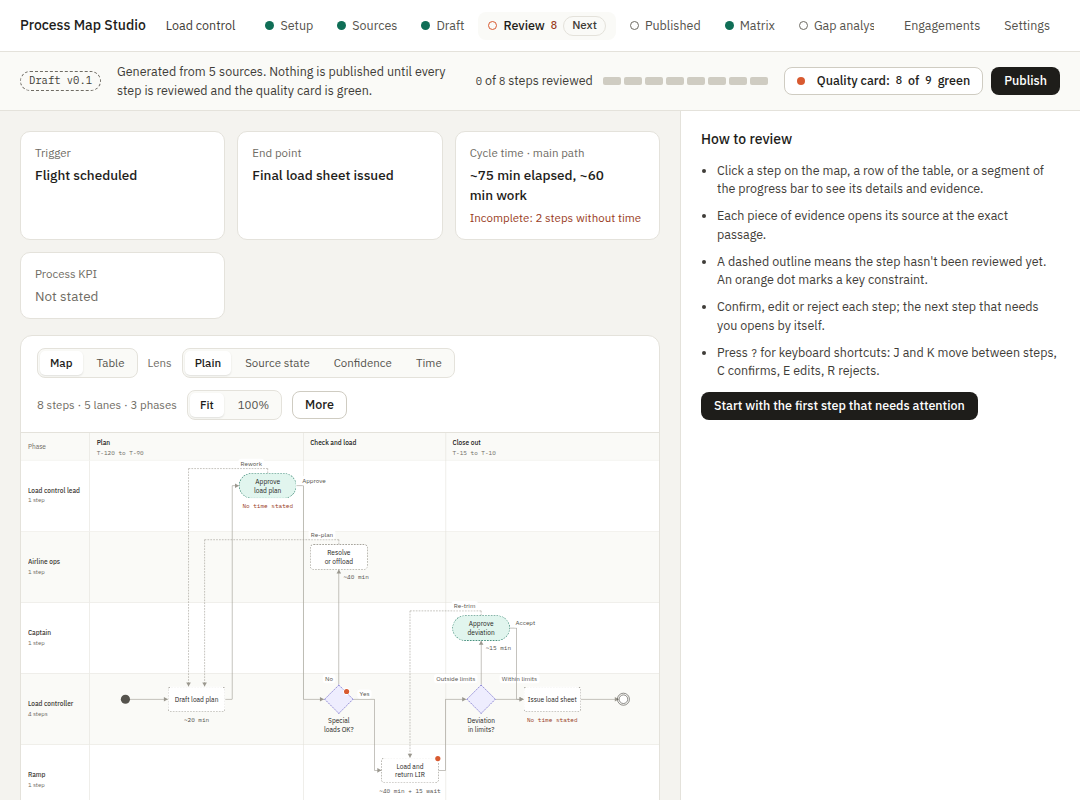
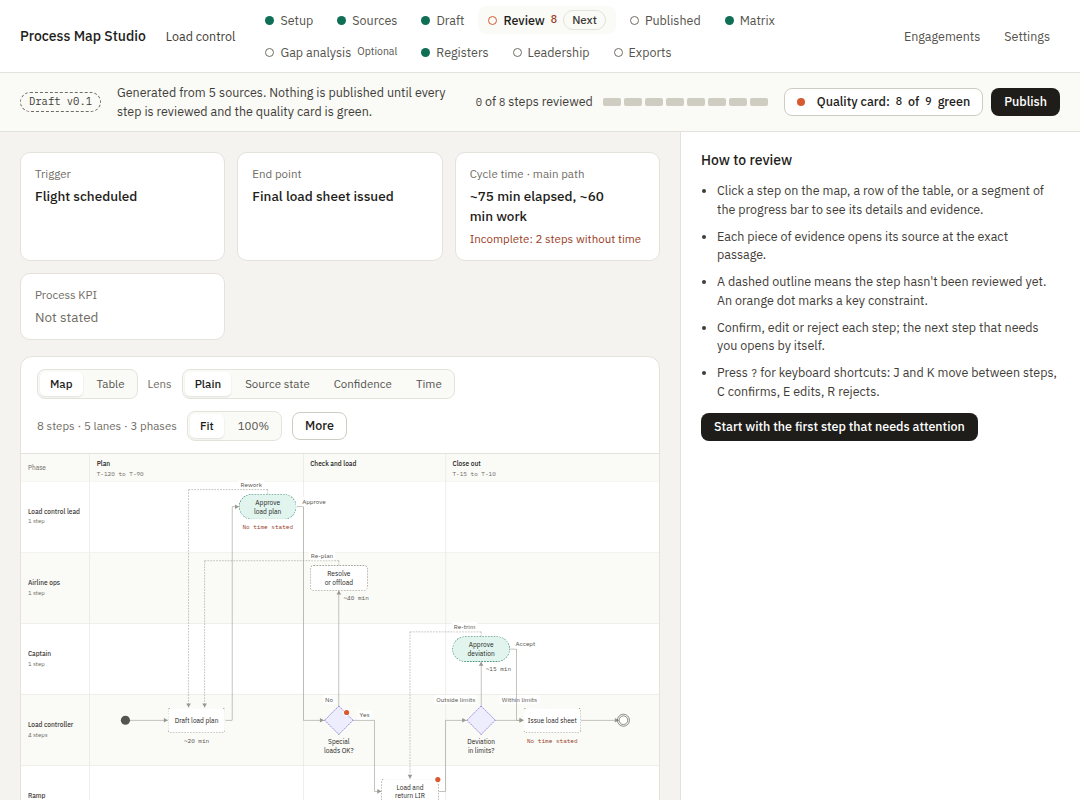
Step bar never cuts off steps: it wraps onto a second line (approved)
In the final visual pass the owner approved one fix: when the window is
narrower or the engagement name is long, the row of steps at the top
now continues on a second line instead of hiding Registers, Leadership
and Exports. A browser check guards it, and the approved 1080 x 800
Review screenshot is updated; the 1440 x 900 one is unchanged.

Claude-Session: https://claude.ai/code/session_015fu8rvp8x8i73CNVXAvCz5

diff --git a/frontend/tests/e2e/smoke.spec.ts b/frontend/tests/e2e/smoke.spec.ts
@@ -201,6 +201,15 @@ test("draft: create a draft map, watch it finish, see the checked claims", async
     }
     await expect(page).toHaveScreenshot("p7-review-1440x900.png");
     await page.setViewportSize({ width: 1080, height: 800 });
+    // P12 visual pass: every step of the guided path stays in view at the smaller size (the bar
+    // wraps instead of cutting off Registers, Leadership and Exports).
+    const bar = page.getByRole("navigation", { name: "Engagement steps" });
+    const barBox = await bar.boundingBox();
+    for (const step of await bar.getByRole("link").all()) {
+      const box = await step.boundingBox();
+      const name = await step.getAttribute("aria-label");
+      expect(box && barBox && box.x + box.width <= barBox.x + barBox.width + 0.5, `${name} is cut off`).toBe(true);
+    }
     await expect(page).toHaveScreenshot("p7-review-1080x800.png");
     await page.setViewportSize({ width: 1440, height: 900 });
     // P7: Publish on an unreviewed draft is refused with what to fix, in the quality card popover.

diff --git a/frontend/src/components/shell/shell.css b/frontend/src/components/shell/shell.css
@@ -56,8 +56,9 @@
 
 .engagement-nav {
   display: flex;
+  /* Wraps rather than cutting off the last steps when space runs short (P12 visual pass). */
+  flex-wrap: wrap;
   gap: var(--space-4);
-  overflow-x: auto;
   padding: var(--space-6) 0;
   margin: 0;
   list-style: none;

diff --git a/PROJECT_STATE.md b/PROJECT_STATE.md
@@ -12,8 +12,8 @@ P12 follows PRD §6.3 P12, §3.10 (clean-clone rehearsal, v1.0.0 release) and §
 - [x] Increment 1 — live evaluation harness: a scorer for the P12 thresholds (evidence verified, numbers found in sources, ≥ 7 of 8 A.5 elements, injection without effect, stability across two runs, no hidden names, Analysis A finds the A.7 divergences, Analysis B citation checks), tested offline on the mocked run; `pytest -m live` runs the fixture twice with the real key and writes an evaluation report
 - [x] Increment 2 — clean-clone rehearsal (PRD §3.10): clone into an empty folder, follow README.md literally with the launchers, start the app with `MOCK_CLAUDE=1`, draft the fixture engagement, delete the folder; fix README and log anything that didn't work as written
 - [x] Increment 3 — handover documents: README.md and GUIDE.md complete (no build-phase wording or placeholders left), app version 1.0.0, plain-language release notes for v1.0.0
-- [ ] Increment 4 — IN PROGRESS, waiting for Eric: final visual pass: screenshots of every screen at 1440 × 900 and 1080 × 800 in `docs/screens/p12-*.png`, index `docs/screens/P12_VISUAL_PASS.md`. One proposed fix awaits his decision: the engagement step bar wraps to a second line instead of cutting off Registers/Leadership/Exports (one line in `frontend/src/components/shell/shell.css`: `flex-wrap: wrap` instead of `overflow-x: auto`); it changes the approved `p7-review-1080x800.png` baseline, so it is not applied until he approves
-- [ ] Increment 5 — live run with Eric's key (only when he asks): run the fixture twice, record the evaluation in DECISIONS.md, tune prompts only if a threshold is missed
+- [x] Increment 4 — final visual pass: screenshots of every screen at 1440 × 900 and 1080 × 800 in `docs/screens/p12-*.png`, index `docs/screens/P12_VISUAL_PASS.md`. One proposed fix awaits his decision: the engagement step bar wraps to a second line instead of cutting off Registers/Leadership/Exports (one line in `frontend/src/components/shell/shell.css`: `flex-wrap: wrap` instead of `overflow-x: auto`); it changes the approved `p7-review-1080x800.png` baseline, Eric approved it on 2026-09-29 and it is applied (new approved 1080 × 800 baseline)
+- [ ] Increment 5 — NEXT (new session, once Eric has added the key to the cloud environment): live run with Eric's key (he asked for it, in the cloud): run the fixture twice, record the evaluation in DECISIONS.md, tune prompts only if a threshold is missed
 - [ ] Increment 6 — close P12: tag `phase-p12` and `v1.0.0`, GitHub release with the notes (Eric creates it if the cloud session can't), report card
 
 ## Done (all sessions)
@@ -115,13 +115,14 @@ P12 follows PRD §6.3 P12, §3.10 (clean-clone rehearsal, v1.0.0 release) and §
 - 2026-09-29 P12 increment 1: live evaluation harness: a scorer for every P12 threshold (evidence verified, numbers in sources, 7 of 8 A.5 steps, injection without effect, no hidden names, stability, Analysis A divergences, Analysis B citations), tested offline on the mocked run; pytest -m live drafts the fixture twice with Eric's key and writes the report. 13 of 13 checks green.
 - 2026-09-29 P12 increment 2: clean-clone rehearsal passes (second pass): setup, start with the mock, key and connection test, the fixture drafted (21 claims, 8 steps), clean stop, folder deleted. The first pass found and fixed three things: the settings template now has blank values (so environment settings apply), the private settings file has its own header, and closing the start window stops the server too. 13 of 13 checks green.
 - 2026-09-29 P12 increment 3: handover documents: app version 1.0.0, README without build-phase wording and linking the release notes (docs/RELEASE_NOTES_v1.0.0.md), GUIDE complete (How to use it: a typical engagement start to finish, screens table, what changed). 13 of 13 checks green.
+- 2026-09-29 P12 increment 4: final visual pass: every screen at 1440 × 900 and 1080 × 800 (docs/screens/P12_VISUAL_PASS.md); Eric approved the one fix found: the engagement step bar wraps instead of cutting off Registers, Leadership and Exports (browser check added; new approved 1080 × 800 Review baseline, 1440 × 900 unchanged). 13 of 13 checks green.
 
 ## Not started yet
 - P12 live run, polish and handover
 
 ## How to resume (write this as if for a stranger)
-1. The next task is: Phase P12 (PRD §6.3 P12: live run, polish and handover — with Eric's key run the fixture twice live (`pytest -m live`, only when Eric asks) and record the evaluation in DECISIONS.md against the P12 thresholds; tune prompts only if thresholds are missed; final visual pass at 1440 × 900 and 1080 × 800 with Eric's approval; complete GUIDE.md and README.md (no placeholders); the clean-clone rehearsal (PRD §3.10) following README.md literally; tag `v1.0.0` and a GitHub release with plain-language notes). Most of it needs Eric's key and his presence: ask him first. Break it into ~30-minute increments in the section above. Check the merge status of the working branch first (if merged, restart it from `main`).
-2. The relevant files are: PRD_ProcessMapStudio.md §3.10, §6.3 P12 and Appendix A.5–A.7 (the expected outcomes); `backend/tests` (the live test marker does not exist yet); README.md and GUIDE.md; `docs/screens/` (the approved visual baselines `docs/screens/p7-review-*.png` must not change without Eric's approval; `p11-leadership.png` is a reference screenshot, not a baseline).
+1. The next task is: P12 increment 5, the live run. Eric chose (2026-09-29) to run it in the cloud: he adds `ANTHROPIC_API_KEY` as an environment variable in the cloud environment's settings, and a **new** session picks it up (check with `env | grep -c ^ANTHROPIC_API_KEY=`, never print the value). Then run `cd backend && PMS_LIVE_REPORT=/tmp/live-evaluation.md ../.venv/bin/pytest -m live -s` (about an hour; two drafts, Analysis A and B; billed to Eric). If Analysis B reports "Web search isn't enabled", record B1–B3 as not run and tell Eric the README fix. Record the report's table in DECISIONS.md and the result in `docs/RELEASE_NOTES_v1.0.0.md` ("How it was checked") and GUIDE's "What changed". Tune prompts only if a threshold is missed (PRD §6.3; three failed attempts → stop and report). Then increment 6: tag `phase-p12` and `v1.0.0` (tag pushes fail from the cloud: say so), and ask Eric to create the GitHub release from `docs/RELEASE_NOTES_v1.0.0.md` (Releases → Draft a new release → tag v1.0.0 → paste the notes) after merging. Check the merge status of the working branch first (if merged, restart it from `main`).
+2. The relevant files are: `backend/tests/live/` (evaluation.py scorer, capture.py, test_live_run.py), `backend/tests/unit/test_live_evaluation.py`, `docs/RELEASE_NOTES_v1.0.0.md`, GUIDE.md, README.md. The approved visual baselines are `docs/screens/p7-review-1440x900.png` and the new `p7-review-1080x800.png` (step bar wraps; approved 2026-09-29); `docs/screens/P12_VISUAL_PASS.md` is the final visual pass.
 3. Watch out for: the GitHub repository was public at kickoff; Eric made it private on 2026-09-26 (confirmed via the GitHub API). Never push if it is public again. This cloud session pushes to branch `claude/charming-davinci-sck1cq`, not `main` (see DECISIONS.md).
 4. Privacy (G10): names are hidden by the actions that build responses (`actions/redaction.py`). Any new endpoint that returns source text, file names, quotes, claims, elements or audit rows must apply `redaction.name_replacements` + `hide`; the Audit tab (P6) must hide names in audit rows (the "Added source" row keeps the uploaded file name).
 5. Process trap (2026-09-26): never chain `./run_checks.sh | tail … && git commit`; the pipe hides the failure code. Run the checks alone, confirm exit code 0, then commit. Fake keys in tests must be built by concatenation (the secret check blocks key-shaped literals).
@@ -129,6 +130,7 @@ P12 follows PRD §6.3 P12, §3.10 (clean-clone rehearsal, v1.0.0 release) and §
 7. Run `./run_checks.sh` first — all 13 lines should say PASS. If `.venv` or `frontend/node_modules` is missing (fresh cloud container), run `python3.12 scripts/setup.py --dev` first.
 
 ## Known issues
+- The P12 live evaluation has not run yet: it waits for Eric's key in the cloud environment (see How to resume). Until then the release notes say the harness is ready but not yet run.
 - The `phase-p11` tag: see the report card for whether it could be pushed (tags have never been pushable from cloud sessions). P11's last commit is on branch `claude/charming-davinci-sck1cq`.
 - The `phase-p10` tag: see the report card for whether it could be pushed (tags have never been pushable from cloud sessions). P10's last commit is on branch `claude/charming-davinci-sck1cq`.
 - Gap analysis runs have been exercised with mocked Claude and mocked web search only; the first live runs happen in P12 with Eric's key (PRD §6.3 P12 thresholds for Analysis A and B).

diff --git a/DECISIONS.md b/DECISIONS.md
@@ -259,3 +259,4 @@ One line per decision, including every library and SDK method verified. Settled 
 | 2026-09-29 | Clean-clone rehearsal (PRD §3.10), first pass on `main` at 00deb6c: clone, Setup.command and Start.command worked as the README says, but two things didn't. (1) Starting with `MOCK_CLAUDE=1` did not switch on the mock: `.env.example` had filled-in values, so the private `.env` pinned every setting and, by the settled precedence (.env first, then the environment), the environment could never apply. `.env.example` now has blank values, as PRD §3.4 says ("committed with blank values"); blank means the PRD default, and Settings fills in what Eric changes. Existing `.env` files keep their values (the same as the defaults). (2) The private `.env` repeated the example's header "Never put your real API key in this file; it is committed to GitHub", which is wrong for the private copy; Setup now gives it its own header. (3) A hang-up sent only to the launcher (what closing the Terminal window sends) stopped the launcher but left the server running, so the next Start would say "Port already in use"; `start.py` now stops the server on a hang-up as on a normal stop. Each fix has a test that failed first | The rehearsal exists to find exactly these; the fixes follow the PRD text and the README's "Close this window to stop it" | Documenting a workaround in the README; changing the settings precedence (a settled decision) |
 | 2026-09-29 | Clean-clone rehearsal, second pass on branch `claude/charming-davinci-sck1cq` at 9f2e1a7 (Linux container standing in for the Mac; the `.command` launchers are bash): clone into an empty folder → Setup.command ("Setup complete", the private .env with its own header and blank values) → Start.command with `MOCK_CLAUDE=1` ("Process Map Studio is running at http://127.0.0.1:8000") → save a key and Test connection (all Pass) → the Appendix A engagement (5 roles, 5 sources read, speakers mapped) drafted: 21 claims verified, the 8 A.5 steps → a hang-up to the launcher ("Stopping Process Map Studio...", port free) → `git status` clean → folder deleted. **Passes.** Not exercised here: GitHub Desktop, the Windows `.bat` launchers and macOS Gatekeeper prompts (Eric's first double-click on each is the real test; the README troubleshooting table covers the known prompts) | PRD §3.10 rehearsal, as close to literal as a cloud container allows | — |
 | 2026-09-29 | Version 1.0.0 at handover (P12 increment 3): `APP_VERSION` 1.0.0 (Settings → About and `/api/health`; the health test's expected value changed with it, a requirement change, not a weakened test); README header shows 1.0.0 and links the plain-language release notes `docs/RELEASE_NOTES_v1.0.0.md`; the README's "build status" and branch notes and GUIDE's "being built in phases" wording and "Arrives in" column are gone; GUIDE gains "How to use it" (a typical engagement, start to finish). The frontend `package.json` version stays 0.1.0 (never shown to Eric; changing it would also touch the lock file) | PRD §6.3 P12 (complete GUIDE.md and README.md, no placeholders; release notes), DECISIONS 2026-09-26 ("the version changes when Eric receives a release") | Bumping at the tag only (the README would describe a release the app didn't report) |
+| 2026-09-29 | Final visual pass (P12 increment 4): every screen at 1440 × 900 and 1080 × 800 in `docs/screens/p12-*.png` with the index `docs/screens/P12_VISUAL_PASS.md`. One defect found: the engagement step bar (`overflow-x: auto`, no visible cue) cut off the last steps (at 1080 wide Registers, Leadership and Exports; at 1440 with a long engagement name, Exports). Fix: the bar wraps (`flex-wrap: wrap`). **Eric approved** the before/after on 2026-09-29; the smoke path now checks that every step is within the bar at 1080 × 800 (failed before the fix), and `p7-review-1080x800.png` is the new approved baseline, regenerated by the test run itself; `p7-review-1440x900.png` is byte-identical | PRD §6.3 P12 (final visual pass with Eric's approval), §5.1 (nothing hidden without a cue) | A horizontal scroll with fade cues (more code, still hides steps); shorter labels (less clear) |

diff --git a/GUIDE.md b/GUIDE.md
@@ -196,7 +196,7 @@ A typical engagement, start to finish (each step has its own section above):
 8. After the SME session, **Reopen as new draft** on **Published**, make the changes and publish the next version.
 
 ## What changed recently
-- 2026-09-29 (version 1.0.0, phase P12): **First release.** Everything in this guide is built. Before handover the app was installed from a fresh copy exactly as the README describes (it worked; three small things it found were fixed: a setting from the computer could be ignored, the private settings file carried a misleading note, and closing the start window could leave the app running in the background). A live evaluation with the real Claude model checks the sample engagement against the quality thresholds; it runs only when you ask, because it uses your key and is billed to your account. The approved Review screenshots did not change.
+- 2026-09-29 (version 1.0.0, phase P12): **First release.** Everything in this guide is built. Before handover the app was installed from a fresh copy exactly as the README describes (it worked; three small things it found were fixed: a setting from the computer could be ignored, the private settings file carried a misleading note, and closing the start window could leave the app running in the background). A live evaluation with the real Claude model checks the sample engagement against the quality thresholds; it runs only when you ask, because it uses your key and is billed to your account. In the final look-over, the row of steps at the top now continues on a second line when the window is narrow or the engagement name is long, so Registers, Leadership and Exports are never cut off; you approved the updated 1080 × 800 Review screenshot.
 - 2026-09-29 (phase P11): **Leadership.** A new screen for a published map, in three columns kept apart. **Facts** shows work and waiting time, rework loops, handoffs and disagreements phase by phase. **Interpretation** shows each cause marked **Systemic** (it spans lanes or phases) or **Local**, with how many sources support it and its confidence. **Recommendation** shows the recoverable waiting time, rework loops, the top AI flags and a line per systemic cause for the decision leadership needs to make, which you can write and save. Every figure opens the steps behind it. Every screen on the guided path is now built. The approved Review screenshots did not change.
 - 2026-09-29 (phase P10): **Gap analysis (optional).** A second opinion on your map. **Documents vs practice** finds where what your SMEs describe differs from the SOPs and job descriptions, with evidence from both sides, a severity and questions for your SMEs where the cause isn't known. **External best practice** compares your map with published practice in your industry, using web search with only a generic brief you check and approve (a confidentiality check highlights anything to remove first). You decide on each finding (validation question, cause library, step or dismiss), then finalise and download the report. **Settings** has a Web research switch and **Test web search**; step details and the Review toolbar show findings waiting for you; **Exports** lists finalised reports; the Master Process Map now lists the cause library entries still to validate and your finalised gap reports. The approved Review screenshots did not change.
 - 2026-09-28 (phase P9): **Comparing sources.** Sources shows how much of each file the map uses and can list the passages nothing cites. The new **Matrix** screen shows every step against the SOPs, the interview, the job descriptions and executed artefacts (supports, contradicts or silent), with filters and a most-serious-first order. The new **Registers** screen gathers knowledge risks, AI flags, constraints by cause, recommended practices, questions, rejected claims and the **cause library**, where you confirm or refute what lies behind each disagreement. No new AI calls; the approved Review screenshots did not change.

diff --git a/docs/screens/P12_VISUAL_PASS.md b/docs/screens/P12_VISUAL_PASS.md
@@ -2,11 +2,11 @@
 
 Every screen with the illustrative sample engagement (Claude mocked), at 1440 × 900 and 1080 × 800, as the app looks today. Nothing here is a new baseline yet: the approved Review screenshots (`p7-review-*.png`) are unchanged.
 
-## One change for your decision: the step bar at the top
+## One change, approved and applied (2026-09-29): the step bar at the top
 
 When the engagement name is long, or the window is narrower, the row of steps at the top (Setup · Sources · … · Exports) is cut off: at 1440 wide "Exports" shows as "Exp", and at 1080 wide Registers, Leadership and Exports are out of sight. They can still be reached by scrolling the bar sideways, but nothing shows that they are there.
 
-**Proposed fix:** the bar continues on a second line when it doesn't fit, so every step is always visible. With a short name at 1440 wide nothing changes. This changes your approved Review screenshot at 1080 × 800 (the top bar becomes two lines), so it needs your approval.
+**Proposed fix:** the bar continues on a second line when it doesn't fit, so every step is always visible. With a short name at 1440 wide nothing changes. This changes your approved Review screenshot at 1080 × 800 (the top bar becomes two lines), Eric approved it; it is applied, and `p7-review-1080x800.png` is the new approved baseline (the 1440 × 900 baseline is unchanged). The screenshots under "Every screen today" were taken before the fix.
 
 | Today (1080 × 800) | With the fix (1080 × 800) |
 |---|---|
